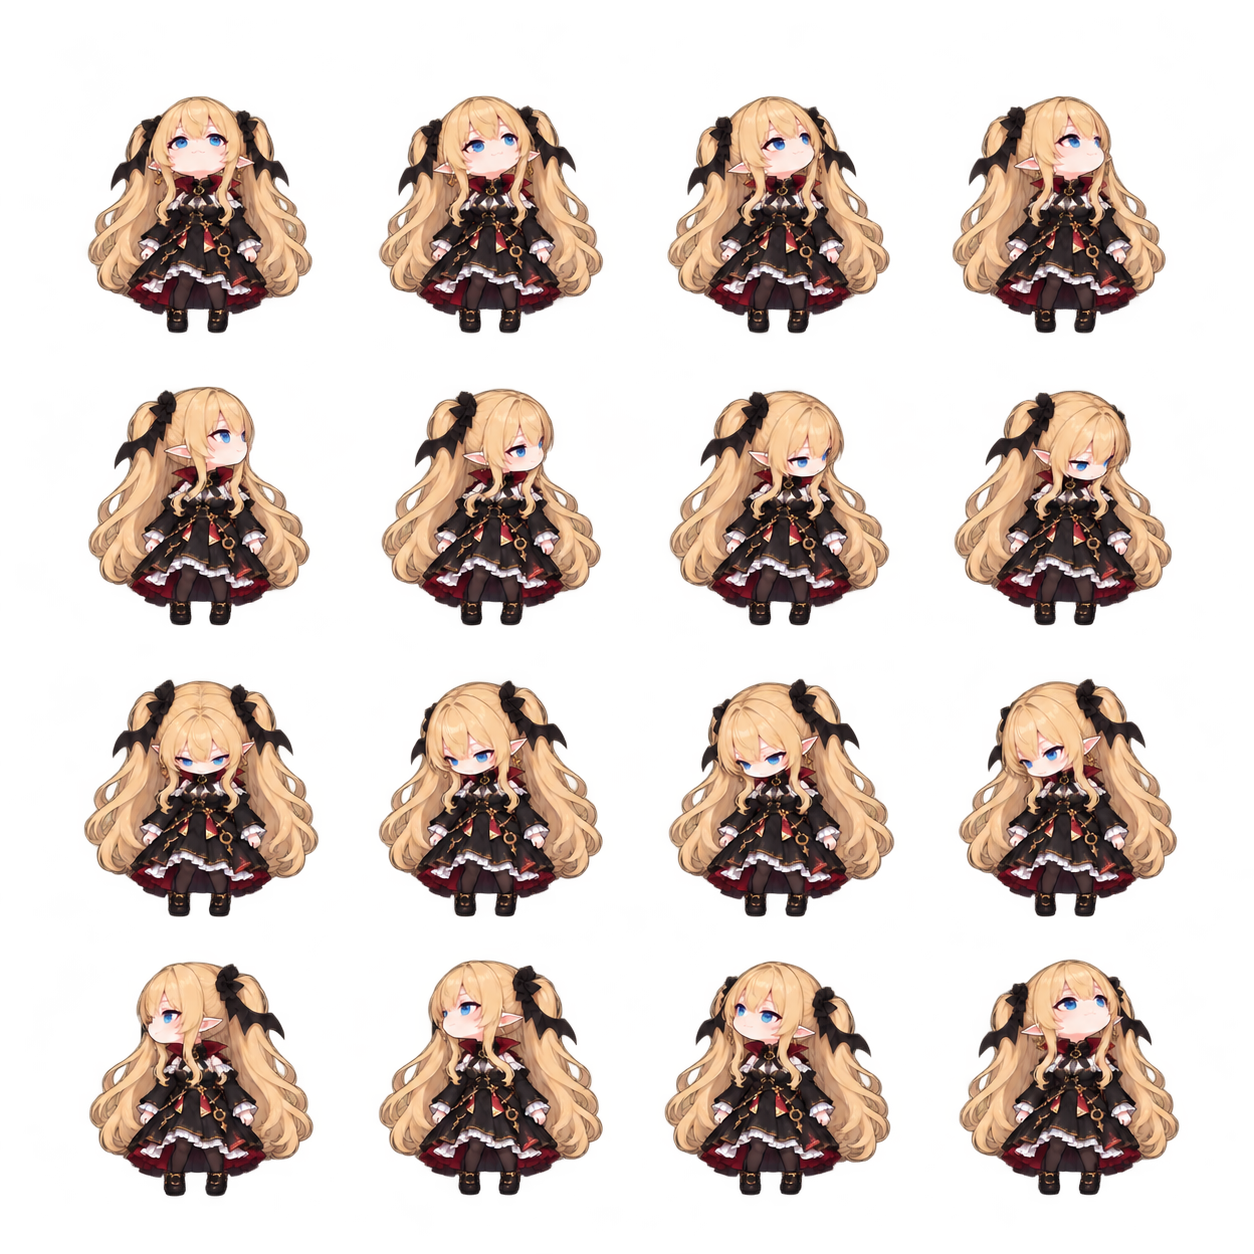
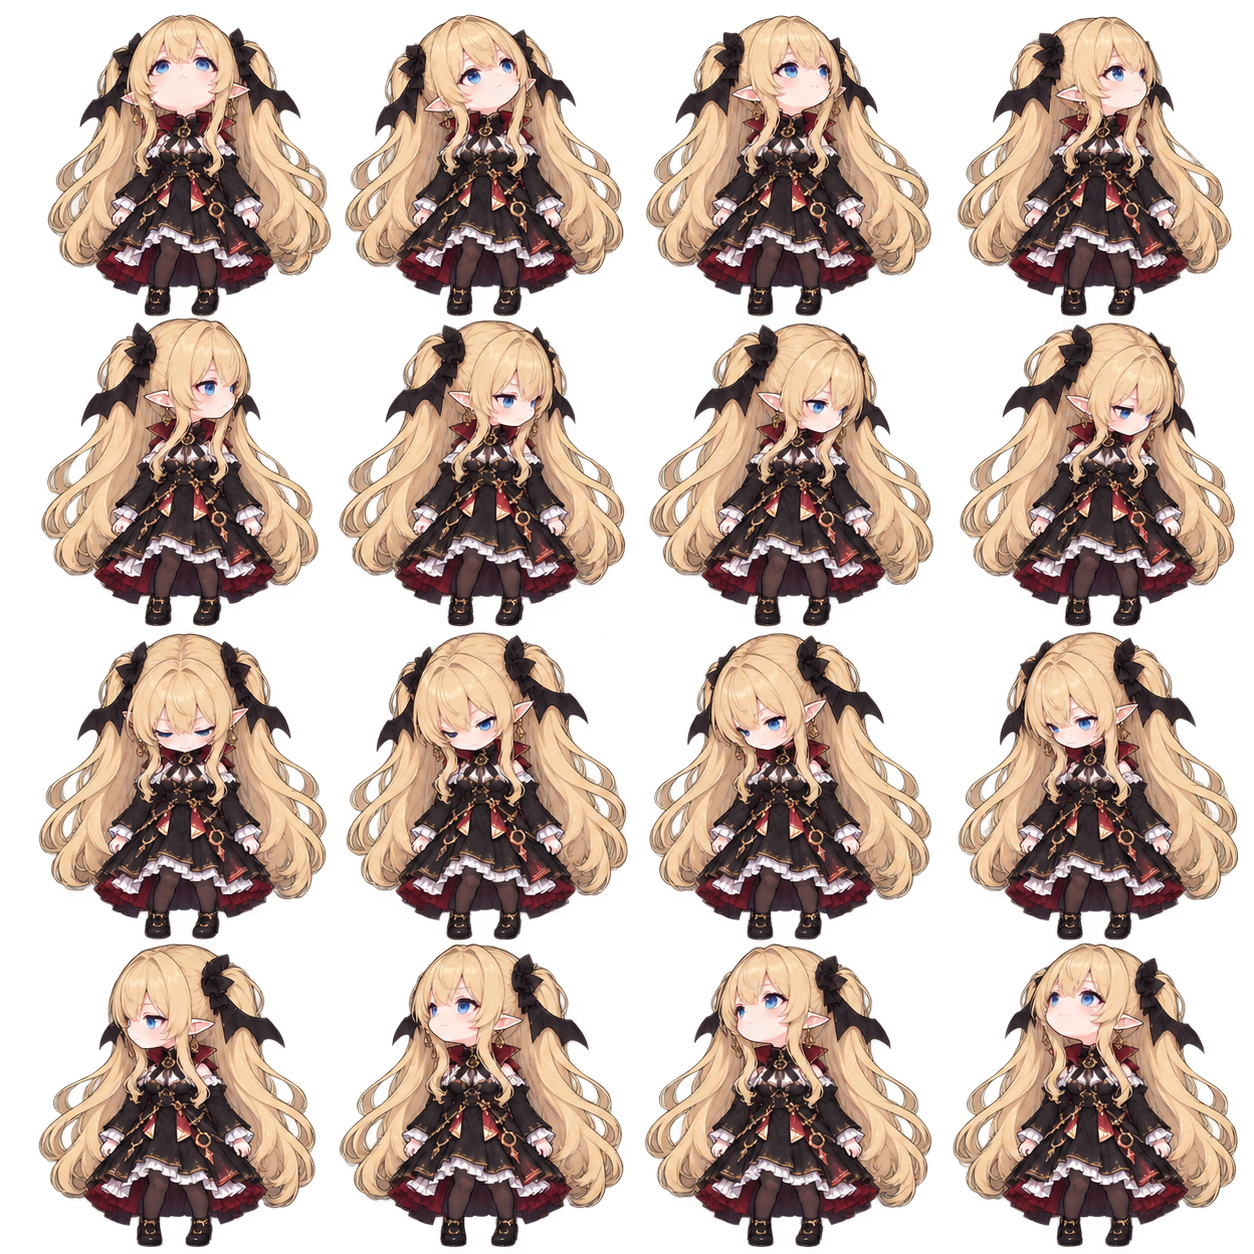
pets: Grok小姐's second running frame, and her look sheet drawn again
The look sheet drawn again (her hair's colour put right) and run-b in
art/grok/. slice_sheet.py: run-b, drawn on its own at another size, is
scaled to run-a's height (both 196 tall, feet on y=204). A sheet whose
cells touch at their faint edges (the new look sheet's rows) is cut at the
least-inked line by each expected boundary, and a neighbour's faint wisps
left in a cell cleared, so they move neither its feet nor its size.

diff --git a/tools/slice_sheet.py b/tools/slice_sheet.py
@@ -8,7 +8,8 @@
 
 姿勢表：3×3，透明背景，格子之間是透明區域，由左到右、由上到下是
   idle-a、idle-b、wave、jump、failed、waiting、working、review、run-a
---run-b：第二張跑步幀（一張圖，透明背景）；沒有就全部用 run-a。
+--run-b：第二張跑步幀（一張圖，透明背景）；沒有就全部用 run-a。它和姿勢表通常畫得不一樣大，
+  所以用自己的比例：縮放後和 run-a 一樣高；腳底、置中和 run-a 相同。
 
 做的事：
   1. 用透明區域的投影切出 9 格（先切列，再在每一列裡切欄），各自裁掉多餘的透明邊。
@@ -81,9 +82,14 @@ def runs(filled):
     return out
 
 
-def split(filled, n, what):
-    """切成 n 段：有東西的區段多於 n 段時（小碎點），併到最近的大段。"""
+def split(ink, n, what):
+    """切成 n 段。ink 是一條投影上每一行（或欄）的墨量（alpha 的和）。
+    有東西的區段多於 n 段時（小碎點），併到最近的大段；少於 n 段時（相鄰兩格的髮梢、鞋尖
+    淡淡地碰在一起，中間沒有全透明的行），在每條預期的格線附近找墨最少的那一行切開。"""
+    filled = ink > 0
     parts = runs(filled)
+    if len(parts) < n:
+        return split_by_ink(ink, n, what)
     while len(parts) > n:
         # 最小的一段併進相鄰、間隔較近的那段。
         i = min(range(len(parts)), key=lambda k: parts[k][1] - parts[k][0])
@@ -97,14 +103,55 @@ def split(filled, n, what):
     return parts
 
 
+def split_by_ink(ink, n, what):
+    """在 n−1 條預期的格線（等分點）前後各 1/(2n) 的範圍裡，挑墨最少的一行切開。"""
+    size = len(ink)
+    reach = size // (2 * n)
+    cuts = []
+    for k in range(1, n):
+        at = k * size // n
+        lo, hi = max(0, at - reach), min(size, at + reach)
+        cuts.append(lo + int(np.argmin(ink[lo:hi])))
+    print(f'{what}：格子之間沒有全透明的間隔，在墨最少的地方切開：{cuts}（那幾行的墨量 {[int(ink[c]) for c in cuts]}）')
+    edges = [0] + cuts + [size]
+    parts = []
+    for a, b in zip(edges, edges[1:]):
+        on = np.nonzero(ink[a:b] > 0)[0]
+        if not len(on):
+            sys.exit(f'{what}：第 {len(parts) + 1} 段是空的')
+        parts.append((a + int(on[0]), a + int(on[-1]) + 1))
+    return parts
+
+
+def body_box(cell, solid=64):
+    """格子裡人的範圍：alpha ≥ solid 的部分的外框。"""
+    a = np.array(cell.getchannel('A'))
+    ys, xs = np.nonzero(a >= solid)
+    return int(xs.min()), int(ys.min()), int(xs.max()) + 1, int(ys.max()) + 1
+
+
+def drop_strays(cell, solid=64, margin=2):
+    """切開時跨過格線的鄰格淡邊（髮梢、鞋尖）清掉：人的範圍（body_box）外超過 margin 的
+    淡點（alpha < solid）。人自己的反鋸齒邊在範圍外 margin 以內，留著；腳底對齊才不會被
+    鄰格的淡邊帶偏。"""
+    x0, y0, x1, y1 = body_box(cell, solid)
+    a = np.array(cell.getchannel('A'))
+    keep = np.zeros(a.shape, dtype=bool)
+    keep[max(0, y0 - margin):y1 + margin, max(0, x0 - margin):x1 + margin] = True
+    a[~keep & (a < solid)] = 0
+    out = cell.copy()
+    out.putalpha(Image.fromarray(a))
+    return out
+
+
 def cut(sheet, n=3):
-    """n×n 的表切成 n² 格（由左到右、由上到下），各自裁到不透明部分的邊。"""
-    a = np.array(sheet.getchannel('A')) > 0
+    """n×n 的表切成 n² 格（由左到右、由上到下），各自清掉鄰格的淡邊、裁到不透明部分的邊。"""
+    a = np.array(sheet.getchannel('A'), dtype=np.int64)
     cells = []
-    for y0, y1 in split(a.any(axis=1), n, '列'):
+    for y0, y1 in split(a.sum(axis=1), n, '列'):
         band = a[y0:y1]
-        for x0, x1 in split(band.any(axis=0), n, f'第 {len(cells) // n + 1} 列的欄'):
-            cell = sheet.crop((x0, y0, x1, y1))
+        for x0, x1 in split(band.sum(axis=0), n, f'第 {len(cells) // n + 1} 列的欄'):
+            cell = drop_strays(sheet.crop((x0, y0, x1, y1)))
             cells.append(cell.crop(cell.getbbox()))
     return cells
 
@@ -205,17 +252,19 @@ def board_of(size):
     return board
 
 
-def crop_preview(poses, scale, out, names=('jump', 'run-a'), zoom=2):
-    """幾格裁切後的樣子：上面是圖集裡的格子，下面是縮放後的整張，被裁掉的部分蓋上紅色。"""
+def crop_preview(poses, scales, out, names=('jump', 'run-a', 'run-b'), zoom=2):
+    """幾格裁切後的樣子：上面是圖集裡的格子，下面是縮放後的整張，被裁掉的部分蓋上紅色。
+    上面那排的格子之間畫一條 y=204 的腳底線。"""
     gap = 24
     parts = []
     for name in names:
-        cell, cut = place(poses[name], scale, FEET_Y.get(name, FEET_Y_DEFAULT), by_mass=True)
-        small = scaled(poses[name], scale)
+        cell, cut = place(poses[name], scales[name], FEET_Y.get(name, FEET_Y_DEFAULT), by_mass=True)
+        small = scaled(poses[name], scales[name])
         width = max(CELL_W, small.width)
         block = Image.new('RGBA', (width, CELL_H + gap + small.height), (255, 255, 255, 0))
         top = board_of((CELL_W, CELL_H))
         top.alpha_composite(cell)
+        top.paste((60, 140, 235, 255), (0, FEET_Y_DEFAULT, CELL_W, FEET_Y_DEFAULT + 1))
         block.paste(top, ((width - CELL_W) // 2, 0))
         full = board_of(small.size)
         full.alpha_composite(small)
@@ -277,19 +326,23 @@ def main():
     name = args.name or pet_id
     cells = cut(clean(Image.open(args.sheet).convert('RGBA'), args.alpha))
     poses = dict(zip(POSES, cells))
-    if args.run_b:
-        run_b = clean(Image.open(args.run_b).convert('RGBA'), args.alpha)
-        poses['run-b'] = run_b.crop(run_b.getbbox())
-    else:
-        poses['run-b'] = poses['run-a']
-
     if args.height:
         same = args.height / poses['idle-a'].height
     else:
         same = min(scale_of(im) for im in poses.values())
+    scales = {k: scale_of(im) if args.fit == 'each' and not args.height else same for k, im in poses.items()}
+    if args.run_b:
+        run_b = drop_strays(clean(Image.open(args.run_b).convert('RGBA'), args.alpha))
+        poses['run-b'] = run_b.crop(run_b.getbbox())
+        # 另外畫的一張：縮放後和 run-a 一樣高。
+        scales['run-b'] = scales['run-a'] * poses['run-a'].height / poses['run-b'].height
+    else:
+        poses['run-b'] = poses['run-a']
+        scales['run-b'] = scales['run-a']
+
     frames = {}
     for k, im in poses.items():
-        s = scale_of(im) if args.fit == 'each' and not args.height else same
+        s = scales[k]
         frames[k], trimmed = place(im, s, FEET_Y.get(k, FEET_Y_DEFAULT), by_mass=bool(args.height))
         lost = trimmed['left'] + trimmed['right'] + trimmed['top']
         said = f'裁掉 左 {trimmed["left"]}、右 {trimmed["right"]}、上 {trimmed["top"]} px' + ('  ! 超過 40 px' if lost > 40 else '')
@@ -339,7 +392,7 @@ def main():
         preview(pet / 'spritesheet.webp', args.look_preview, rows=2, first=make_sheet.LOOK_ROW)
         print(f'視線預覽：{args.look_preview}')
     if args.crop_preview:
-        crop_preview(poses, same, args.crop_preview)
+        crop_preview(poses, scales, args.crop_preview, names=('jump', 'run-a', 'run-b') if args.run_b else ('jump', 'run-a'))
         print(f'裁切預覽：{args.crop_preview}')
 
 

diff --git a/art/README.md b/art/README.md
@@ -23,6 +23,6 @@ art/
 - 默认宠物 [大肥鱼/Deepseek Chan](https://codex-pets.net/#/pets/deepseek-chan) 的作者是 Dullsaw；`ocean-maid/` 参考了它的造型。
 - `references/` 里的图版权归各自作者。
 
-- `grok/`（**例外，进仓库**）：Grok 小姐的角色设计参考自 B 站 UP 主「沉默寡言佰佰」的 Grok 4.7 形象，是非官方 Q 版二创。`grok-sheet.png` 是姿势表，`grok-look.png` 是 4×4 的视线方向表（look 的 16 格），`preview-grok.png` 是图集前三行的预览，`preview-grok-crop.png` 是跳和跑两格裁切后的样子，`preview-grok-look.png` 是 look 两行；成品在 `data/pets/grok-chan/`，用 `python tools/slice_sheet.py art/grok/grok-sheet.png tools/grok-frames --id grok-chan --name "Grok小姐" --height 200 --look art/grok/grok-look.png --breathe` 重新生成。
+- `grok/`（**例外，进仓库**）：Grok 小姐的角色设计参考自 B 站 UP 主「沉默寡言佰佰」的 Grok 4.7 形象，是非官方 Q 版二创。`grok-sheet.png` 是姿势表，`grok-look.png` 是 4×4 的视线方向表（look 的 16 格），`grok-run-b.png` 是第二张跑步帧，`preview-grok.png` 是图集前三行的预览，`preview-grok-crop.png` 是跳和两张跑步帧裁切后的样子，`preview-grok-look.png` 是 look 两行；成品在 `data/pets/grok-chan/`，用 `python tools/slice_sheet.py art/grok/grok-sheet.png tools/grok-frames --id grok-chan --name "Grok小姐" --height 200 --look art/grok/grok-look.png --run-b art/grok/grok-run-b.png --breathe` 重新生成。
 
 要把某套素材放进应用（比如做成默认宠物或换掉图标），需要先确认原作者的授权。
